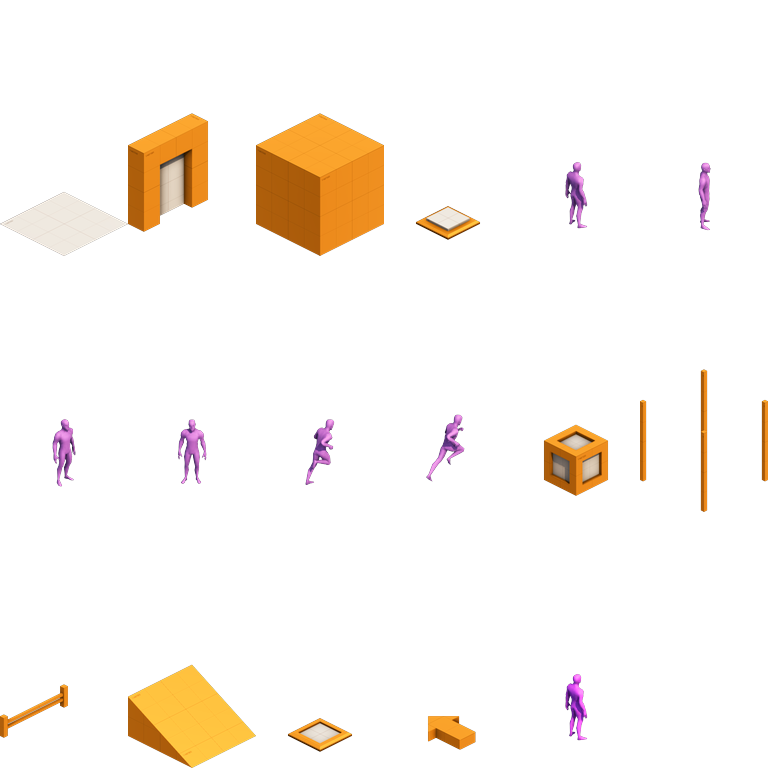
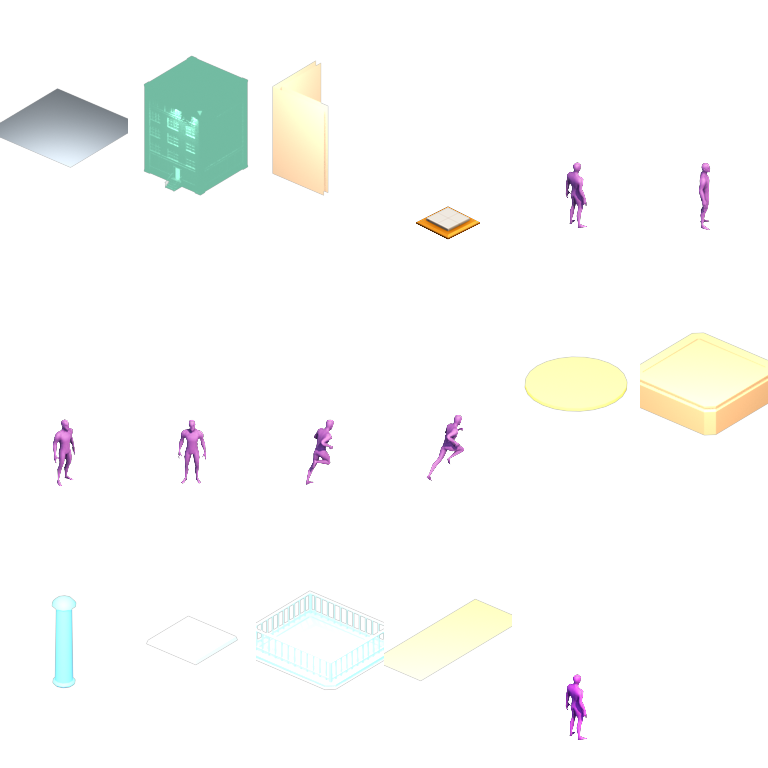
feat: swap atlas to megakit renders

diff --git a/public/assets/_source/pack_atlas.py b/public/assets/_source/pack_atlas.py
@@ -20,6 +20,8 @@ SOURCE_ZIP = ROOT / "_source" / "kenney.zip"
 RENDERS_DIR = ROOT / "_source" / "renders"
 OUT_PNG = ROOT / "game.png"
 OUT_JSON = ROOT / "game.json"
+EXISTING_ATLAS_PNG = ROOT / "game.png"
+EXISTING_ATLAS_JSON = ROOT / "game.json"
 
 FRAME_W = 128
 FRAME_H = 256
@@ -66,6 +68,14 @@ def load_kenney_image(zf: zipfile.ZipFile, path: str) -> Image.Image:
 def load_render_image(frame_key: str) -> Image.Image:
     path = RENDERS_DIR / f"{frame_key}.png"
     return Image.open(path).convert("RGBA")
+
+
+def load_existing_atlas_frame(frame_key: str) -> Image.Image:
+    atlas = Image.open(EXISTING_ATLAS_PNG).convert("RGBA")
+    atlas_json = json.loads(EXISTING_ATLAS_JSON.read_text(encoding="utf-8"))
+    frame = atlas_json["frames"][frame_key]["frame"]
+    box = (frame["x"], frame["y"], frame["x"] + frame["w"], frame["y"] + frame["h"])
+    return atlas.crop(box)
 
 
 def tint_orange(img: Image.Image) -> Image.Image:
@@ -129,15 +139,21 @@ def pack_frames(images: dict[str, Image.Image], source_label: str) -> None:
 
 def load_render_images() -> dict[str, Image.Image]:
     images: dict[str, Image.Image] = {}
-    with zipfile.ZipFile(SOURCE_ZIP) as zf:
+    zf: zipfile.ZipFile | None = zipfile.ZipFile(SOURCE_ZIP) if SOURCE_ZIP.exists() else None
+    try:
         for key, kenney_path in FRAMES.items():
             if key in RENDER_FRAME_KEYS:
                 images[key] = load_render_image(key)
-            else:
+            elif zf is not None:
                 img = load_kenney_image(zf, kenney_path)
                 if key == "bodega_cat":
                     img = tint_orange(img)
                 images[key] = img
+            else:
+                images[key] = load_existing_atlas_frame(key)
+    finally:
+        if zf is not None:
+            zf.close()
     return images
 
 
@@ -154,9 +170,9 @@ def load_kenney_images() -> dict[str, Image.Image]:
 
 def main() -> None:
     if has_complete_render_set():
-        if not SOURCE_ZIP.exists():
+        if not SOURCE_ZIP.exists() and not (EXISTING_ATLAS_PNG.exists() and EXISTING_ATLAS_JSON.exists()):
             raise SystemExit(
-                f"Missing {SOURCE_ZIP}. Kenney zip is still needed for optional carryover frames."
+                f"Missing {SOURCE_ZIP} and existing atlas files. Optional carryover frames need one source."
             )
         pack_frames(load_render_images(), "renders/{frame_key}.png")
         return

diff --git a/ASSETS.md b/ASSETS.md
@@ -6,7 +6,7 @@ Last updated: June 6, 2026
 
 ---
 
-## Planned primary pack
+## Shipped primary pack
 
 | Field | Value |
 |-------|-------|
@@ -17,10 +17,26 @@ Last updated: June 6, 2026
 | **Pipeline repo** | `mNithik/3d-to-2.5d-render` |
 | **Attribution** | Not required |
 
-MegaKit renders are produced offline as transparent 128 x 256 PNGs named
-`renders/{frame_key}.png`, then packed into the shipped Phaser atlas.
+MegaKit is the shipped first-swap art source for the required board frames.
+The outer pipeline repo renders selected FBX files offline as transparent
+128 x 256 PNGs named `renders/{frame_key}.png`, then the game repo packs them
+into the shipped Phaser atlas.
 
 `source.zip` is unverified and is not used or shipped.
+
+### Shipped MegaKit frame selections
+
+| Atlas key | MegaKit asset |
+|-----------|---------------|
+| `tile_street` | `Exports/FBX (Unity)/Street_Asphalt_6x6.fbx` |
+| `tile_bodega` | `Exports/FBX (Unity)/Building_Small_1.fbx` |
+| `tile_alley` | `Exports/FBX (Unity)/Brick_Corner_Plain.fbx` |
+| `pickup_cash` | `Exports/FBX (Unity)/Prop_ManholeCover.fbx` |
+| `pickup_coffee` | `Exports/FBX (Unity)/Prop_Planter_Single.fbx` |
+| `pickup_shield` | `Exports/FBX (Unity)/Prop_Bollard.fbx` |
+| `fx_spill` | `Exports/FBX (Unity)/Prop_Drain.fbx` |
+| `fx_shield` | `Exports/FBX (Unity)/Sidewalk_Planter.fbx` |
+| `fx_speed` | `Exports/FBX (Unity)/Decal_ArrowStraight.fbx` |
 
 ---
 
@@ -36,8 +52,8 @@ MegaKit renders are produced offline as transparent 128 x 256 PNGs named
 | **Download** | `Prototype Pack (2.3).zip` (OpenGameArt direct) |
 | **Attribution** | Not required (appreciated) |
 
-Kenney is the Phase 1 interim atlas and remains the fallback rebuild source
-until the MegaKit render set is complete.
+Kenney remains a rebuild fallback and provides optional carryover frames for
+this first MegaKit swap, such as tokens, `tile_pickup_spawn`, and `bodega_cat`.
 
 ---
 
@@ -58,23 +74,23 @@ this.load.atlas('game', 'assets/game.png', 'assets/game.json');
 
 | Atlas key | Current source | MegaKit target | In-game use |
 |-----------|----------------|----------------|-------------|
-| `tile_street` | Kenney `Isometric/floor_E.png` | Road/asphalt tile | Street tile |
-| `tile_bodega` | Kenney `Isometric/doorClosed_E.png` | Storefront facade | Bodega tile |
-| `tile_alley` | Kenney `Isometric/block_E.png` | Alley wall or blocked corner | Alley tile |
-| `tile_pickup_spawn` | Kenney `Isometric/switchFloorOff_E.png` | Floor decal | Optional pickup spawn marker |
-| `token_red` | Kenney character | Carryover optional | Optional token sprite |
-| `token_blue` | Kenney character | Carryover optional | Optional token sprite |
-| `token_green` | Kenney character | Carryover optional | Optional token sprite |
-| `token_yellow` | Kenney character | Carryover optional | Optional token sprite |
-| `token_red_walk_0` | Kenney character | Carryover optional | Optional walk frame |
-| `token_red_walk_1` | Kenney character | Carryover optional | Optional walk frame |
-| `pickup_cash` | Kenney `Isometric/crate_E.png` | Register, coin, or cash icon | Cash pickup |
-| `pickup_coffee` | Kenney `Isometric/poleGroup_E.png` | Coffee cup custom render | Coffee buff pickup |
-| `pickup_shield` | Kenney `Isometric/fence_E.png` | Deli shutter or shield icon | Shield pickup |
-| `fx_spill` | Kenney `Isometric/slopeHalf_E.png` | Ground slick decal | Spill overlay |
-| `fx_shield` | Kenney `Isometric/switchFloorOn_E.png` | Protected tile glow | Shield overlay |
-| `fx_speed` | Kenney `Isometric/arrow_E.png` | Arrow decal | Speed / contested overlay |
-| `bodega_cat` | Kenney character with tint | Custom mascot optional | Flavor mascot |
+| `tile_street` | MegaKit render | Street/asphalt tile | Street tile |
+| `tile_bodega` | MegaKit render | Small storefront building | Bodega tile |
+| `tile_alley` | MegaKit render | Brick corner block | Alley tile |
+| `tile_pickup_spawn` | Kenney carryover | Floor decal | Optional pickup spawn marker |
+| `token_red` | Kenney carryover | Carryover optional | Optional token sprite |
+| `token_blue` | Kenney carryover | Carryover optional | Optional token sprite |
+| `token_green` | Kenney carryover | Carryover optional | Optional token sprite |
+| `token_yellow` | Kenney carryover | Carryover optional | Optional token sprite |
+| `token_red_walk_0` | Kenney carryover | Carryover optional | Optional walk frame |
+| `token_red_walk_1` | Kenney carryover | Carryover optional | Optional walk frame |
+| `pickup_cash` | MegaKit render | Manhole cover prop | Cash pickup |
+| `pickup_coffee` | MegaKit render | Planter prop | Coffee buff pickup |
+| `pickup_shield` | MegaKit render | Bollard prop | Shield pickup |
+| `fx_spill` | MegaKit render | Drain prop | Spill overlay |
+| `fx_shield` | MegaKit render | Sidewalk planter prop | Shield overlay |
+| `fx_speed` | MegaKit render | Straight arrow decal | Speed / contested overlay |
+| `bodega_cat` | Kenney carryover | Custom mascot optional | Flavor mascot |
 
 Tokens intentionally remain colored circles in the Phaser scene for readability.
 

diff --git a/public/assets/_source/README.md b/public/assets/_source/README.md
@@ -16,3 +16,7 @@ python public/assets/_source/pack_atlas.py
 
 When all required render PNGs are present, the packer uses those. Otherwise it
 falls back to `kenney.zip`.
+
+If the required render PNGs are present and `kenney.zip` is absent, optional
+carryover frames are cropped from the existing committed `game.png` /
+`game.json` atlas.
